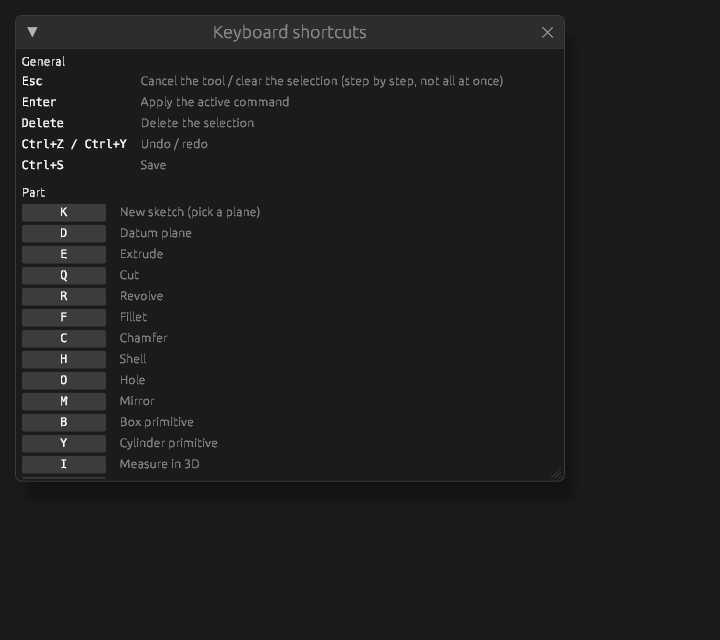
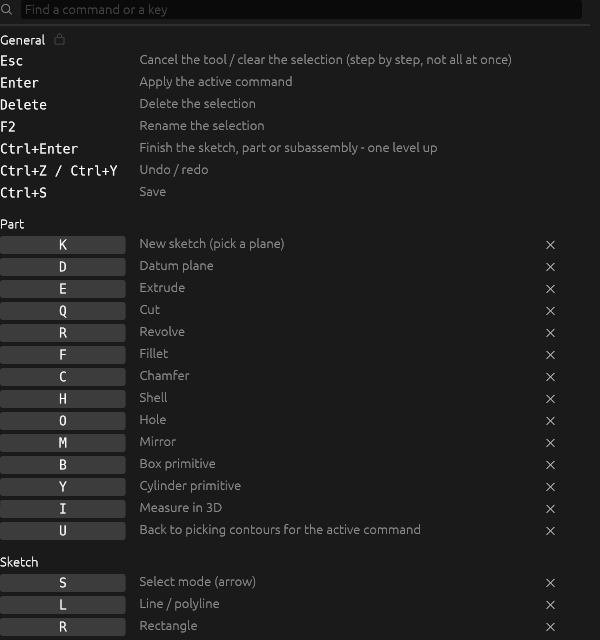
docs(help): the picture of the keys shows the table of Settings -> Keyboard
The help page of the keys said the list is in Settings -> Keyboard, while
img/hotkeys.png still showed the removed window "Keyboard shortcuts" with
its own title bar. The picture is drawn anew from the generator, which
already draws the bare table.

Every shot writes the keys the portable way, "Ctrl+Z" (`shot_ui`): on a
Mac the fonts installed for a shot switched the keys to the Command sign,
and a picture drawn there showed the keys of one system in the help of
all. Only hotkeys.png is committed; the other pictures drawn in the same
run differ from the committed ones in their antialiasing alone.

Changed region(s): [[0.0, 0.0, 0.81, 0.8438], [0.0, 0.875, 0.21, 1.0], [0.24, 0.9062, 0.42, 1.0]]

diff --git a/crates/qymcad/src/gui/help_raster.rs b/crates/qymcad/src/gui/help_raster.rs
@@ -27,6 +27,9 @@ pub(super) fn shot_ui(size: [usize; 2], bg: Color32, mut draw: impl FnMut(&mut e
     let (w, h) = (size[0] * SS, size[1] * SS);
     let ctx = egui::Context::default();
     super::install_fonts(&ctx);
+    // THE KEYS ARE WRITTEN THE PORTABLE WAY, "Ctrl+Z", whatever system draws the pictures: the fonts of a Mac, installed
+    // just above, switch them to the Command sign, and the help of every system showed the keys of one
+    qymcad_ui_state::set_key_style(qymcad_ui_state::KeyStyle::Plain);
     // SUPERSAMPLING THROUGH PIXEL DENSITY RATHER THAN CANVAS SIZE. The first edition simply took a
     // canvas twice as large — and the dimension captions and constraint glyphs came out half the size:
     // they are given in POINTS and do not react to a larger canvas. `egui` can do exactly what is
